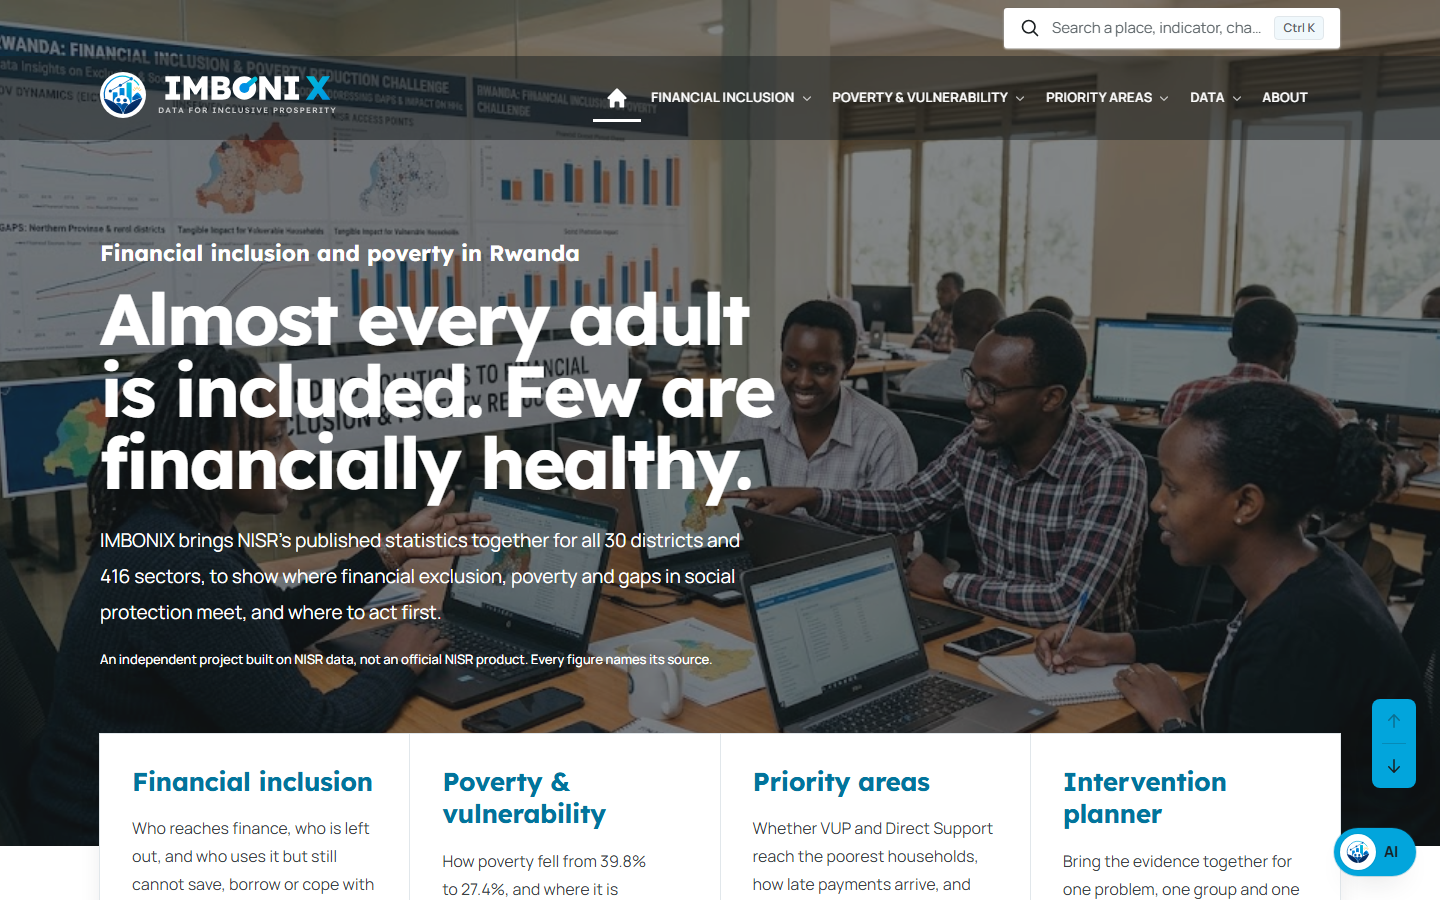
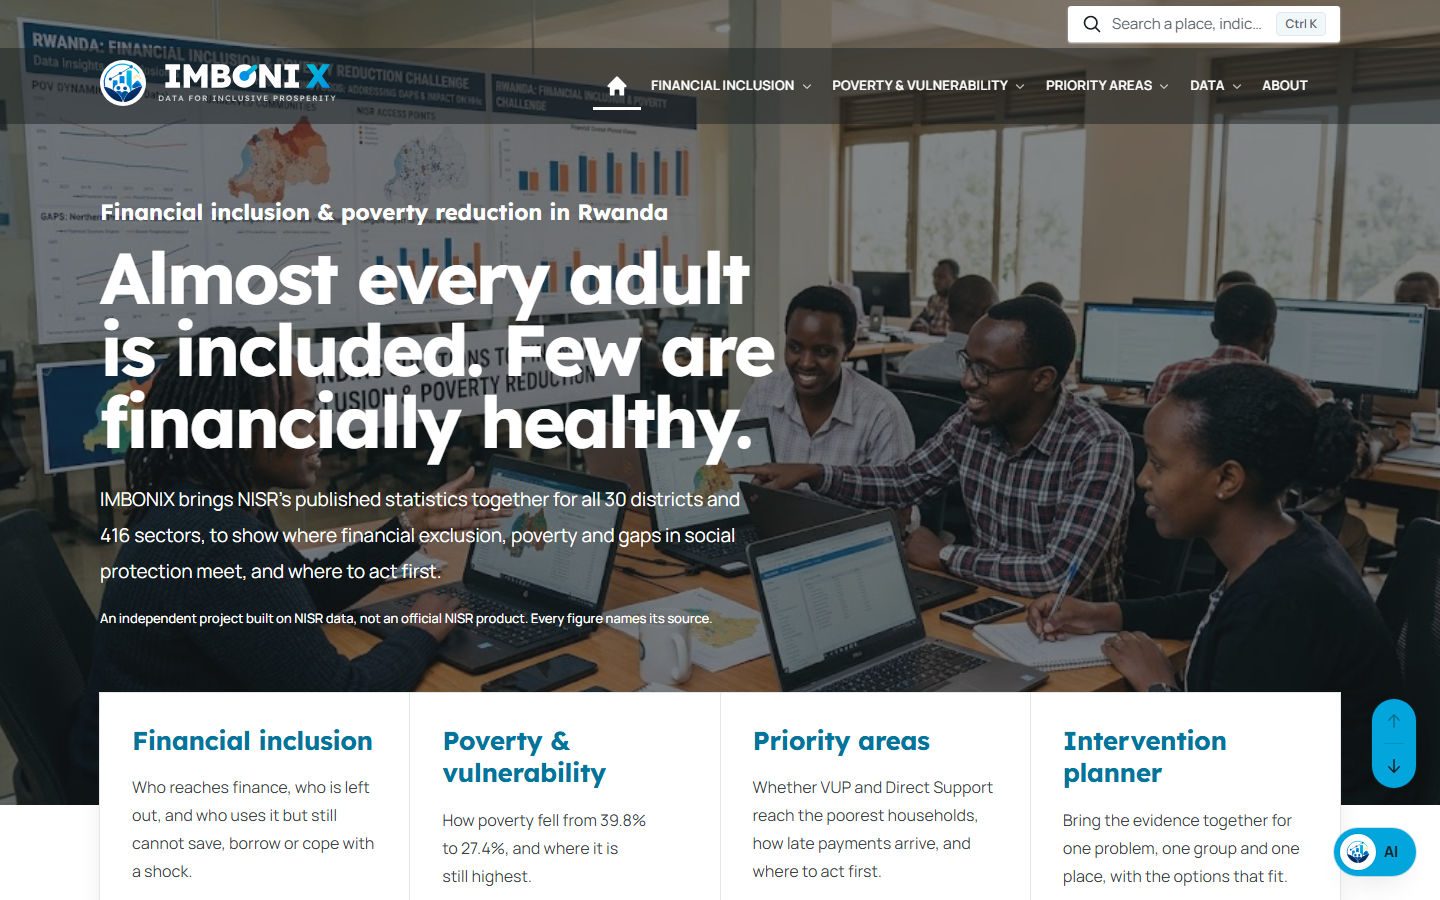
style(web): tighter header and shorter search; more hero visible above the fold
- Shorter, slimmer site-search button (sm:w-[17rem], h-9) in a tighter row.
- Reduce the header height (84px -> 76px) so the logo and tabs sit higher.
- Pull the homepage hero up to match (-mt and top padding), so the team photo
  still fills the top with no gap and more of the hero and cards show before
  scrolling.
- Refresh home.png.

diff --git a/apps/web/src/components/layout/site-header-nav.tsx b/apps/web/src/components/layout/site-header-nav.tsx
@@ -165,13 +165,13 @@ export function SiteHeaderNav({ data }: { data: HeaderData }) {
       {/* The site search, a field in the right corner. On the homepage top the bar is clear so the one hero photo
           behind the header shows through; elsewhere it is the brand cyan. */}
       <div ref={searchBarRef} className={cn("relative z-50", overlay ? "bg-transparent" : "bg-cyan")}>
-        <div className="container-page flex justify-end py-2">
+        <div className="container-page flex justify-end py-1.5">
           <button
             type="button"
             onClick={openSearch}
             aria-haspopup="dialog"
             aria-label={`Search the site (${shortcutLabel})`}
-            className="flex h-10 w-full items-center gap-3 rounded-md bg-white px-4 text-left shadow-card ring-1 ring-ink/10 transition-shadow hover:ring-ink/40 focus-visible:outline-none focus-visible:ring-2 focus-visible:ring-ink sm:w-[21rem]"
+            className="flex h-9 w-full items-center gap-2.5 rounded-md bg-white px-3.5 text-left shadow-card ring-1 ring-ink/10 transition-shadow hover:ring-ink/40 focus-visible:outline-none focus-visible:ring-2 focus-visible:ring-ink sm:w-[17rem]"
           >
             <MagnifyingGlassIcon className="h-5 w-5 shrink-0 stroke-2 text-ink" aria-hidden="true" />
             <span className="min-w-0 flex-1 truncate text-[15px] text-muted">
@@ -194,7 +194,7 @@ export function SiteHeaderNav({ data }: { data: HeaderData }) {
       >
         {/* Over the hero photo a dark scrim keeps the white logo and links clearly readable. */}
         {overlay && <div aria-hidden="true" className="pointer-events-none absolute inset-0 bg-ink/50" />}
-        <div className="container-page relative flex h-[84px] items-center gap-4">
+        <div className="container-page relative flex h-[76px] items-center gap-4">
           <Link href="/" aria-label="IMBONIX home" className={cn("shrink-0 rounded-xl", FOCUS_RING)}>
             <BrandLogo onDark={overlay} />
           </Link>

diff --git a/apps/web/src/components/home/home-hero.tsx b/apps/web/src/components/home/home-hero.tsx
@@ -28,7 +28,7 @@ export function HomeHero({
     <section aria-labelledby="home-heading">
       {/* The banner slides up behind the header (which is transparent over it at the top), so the photo is one image
           across the whole top; the content keeps clear of the header with the extra top padding below. */}
-      <div className={`relative -mt-[141px] overflow-hidden bg-cyan ${HERO_PHOTO ? "text-white" : "text-ink"}`}>
+      <div className={`relative -mt-[125px] overflow-hidden bg-cyan ${HERO_PHOTO ? "text-white" : "text-ink"}`}>
         {HERO_PHOTO ? (
           <>
             {/* The team photo in its own colours, filling the banner. */}
@@ -50,7 +50,7 @@ export function HomeHero({
             </div>
           </>
         )}
-        <div className="container-page relative pb-40 pt-[205px] sm:pb-44 sm:pt-[237px]">
+        <div className="container-page relative pb-40 pt-[172px] sm:pb-44 sm:pt-[196px]">
           {!HERO_PHOTO && <RwandaEmblem tone="cyan" className="absolute right-10 top-14 hidden w-[25rem] xl:block" />}
           <p className="font-display text-[18px] font-bold sm:text-[22px]">Financial inclusion &amp; poverty reduction in Rwanda</p>
           <h1
